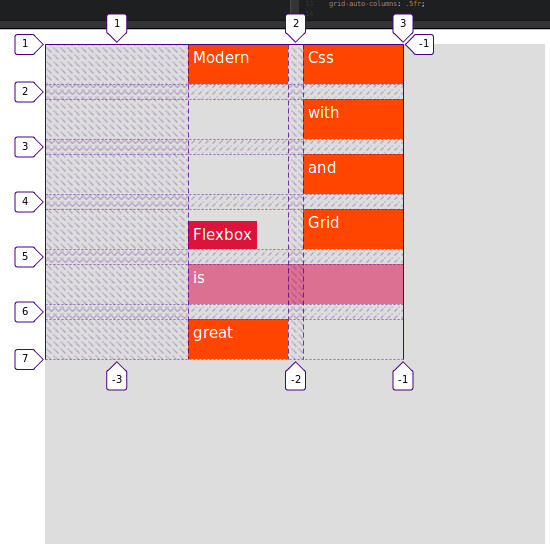
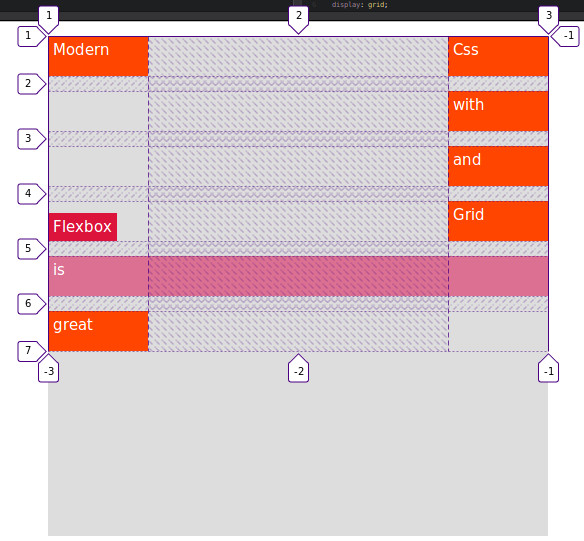
Align the entire grid to the container using space-around value instead of space-between.

diff --git a/scss/style.scss b/scss/style.scss
@@ -21,7 +21,7 @@
   grid-template-columns: repeat(2, 200px);
   height: 1000px;
   
-   justify-content: space-between; // center/ start/ end /space-between
+   justify-content: space-around; // center/ start/ end /space-between /space-around
    
   .item {
     padding: 20px;
